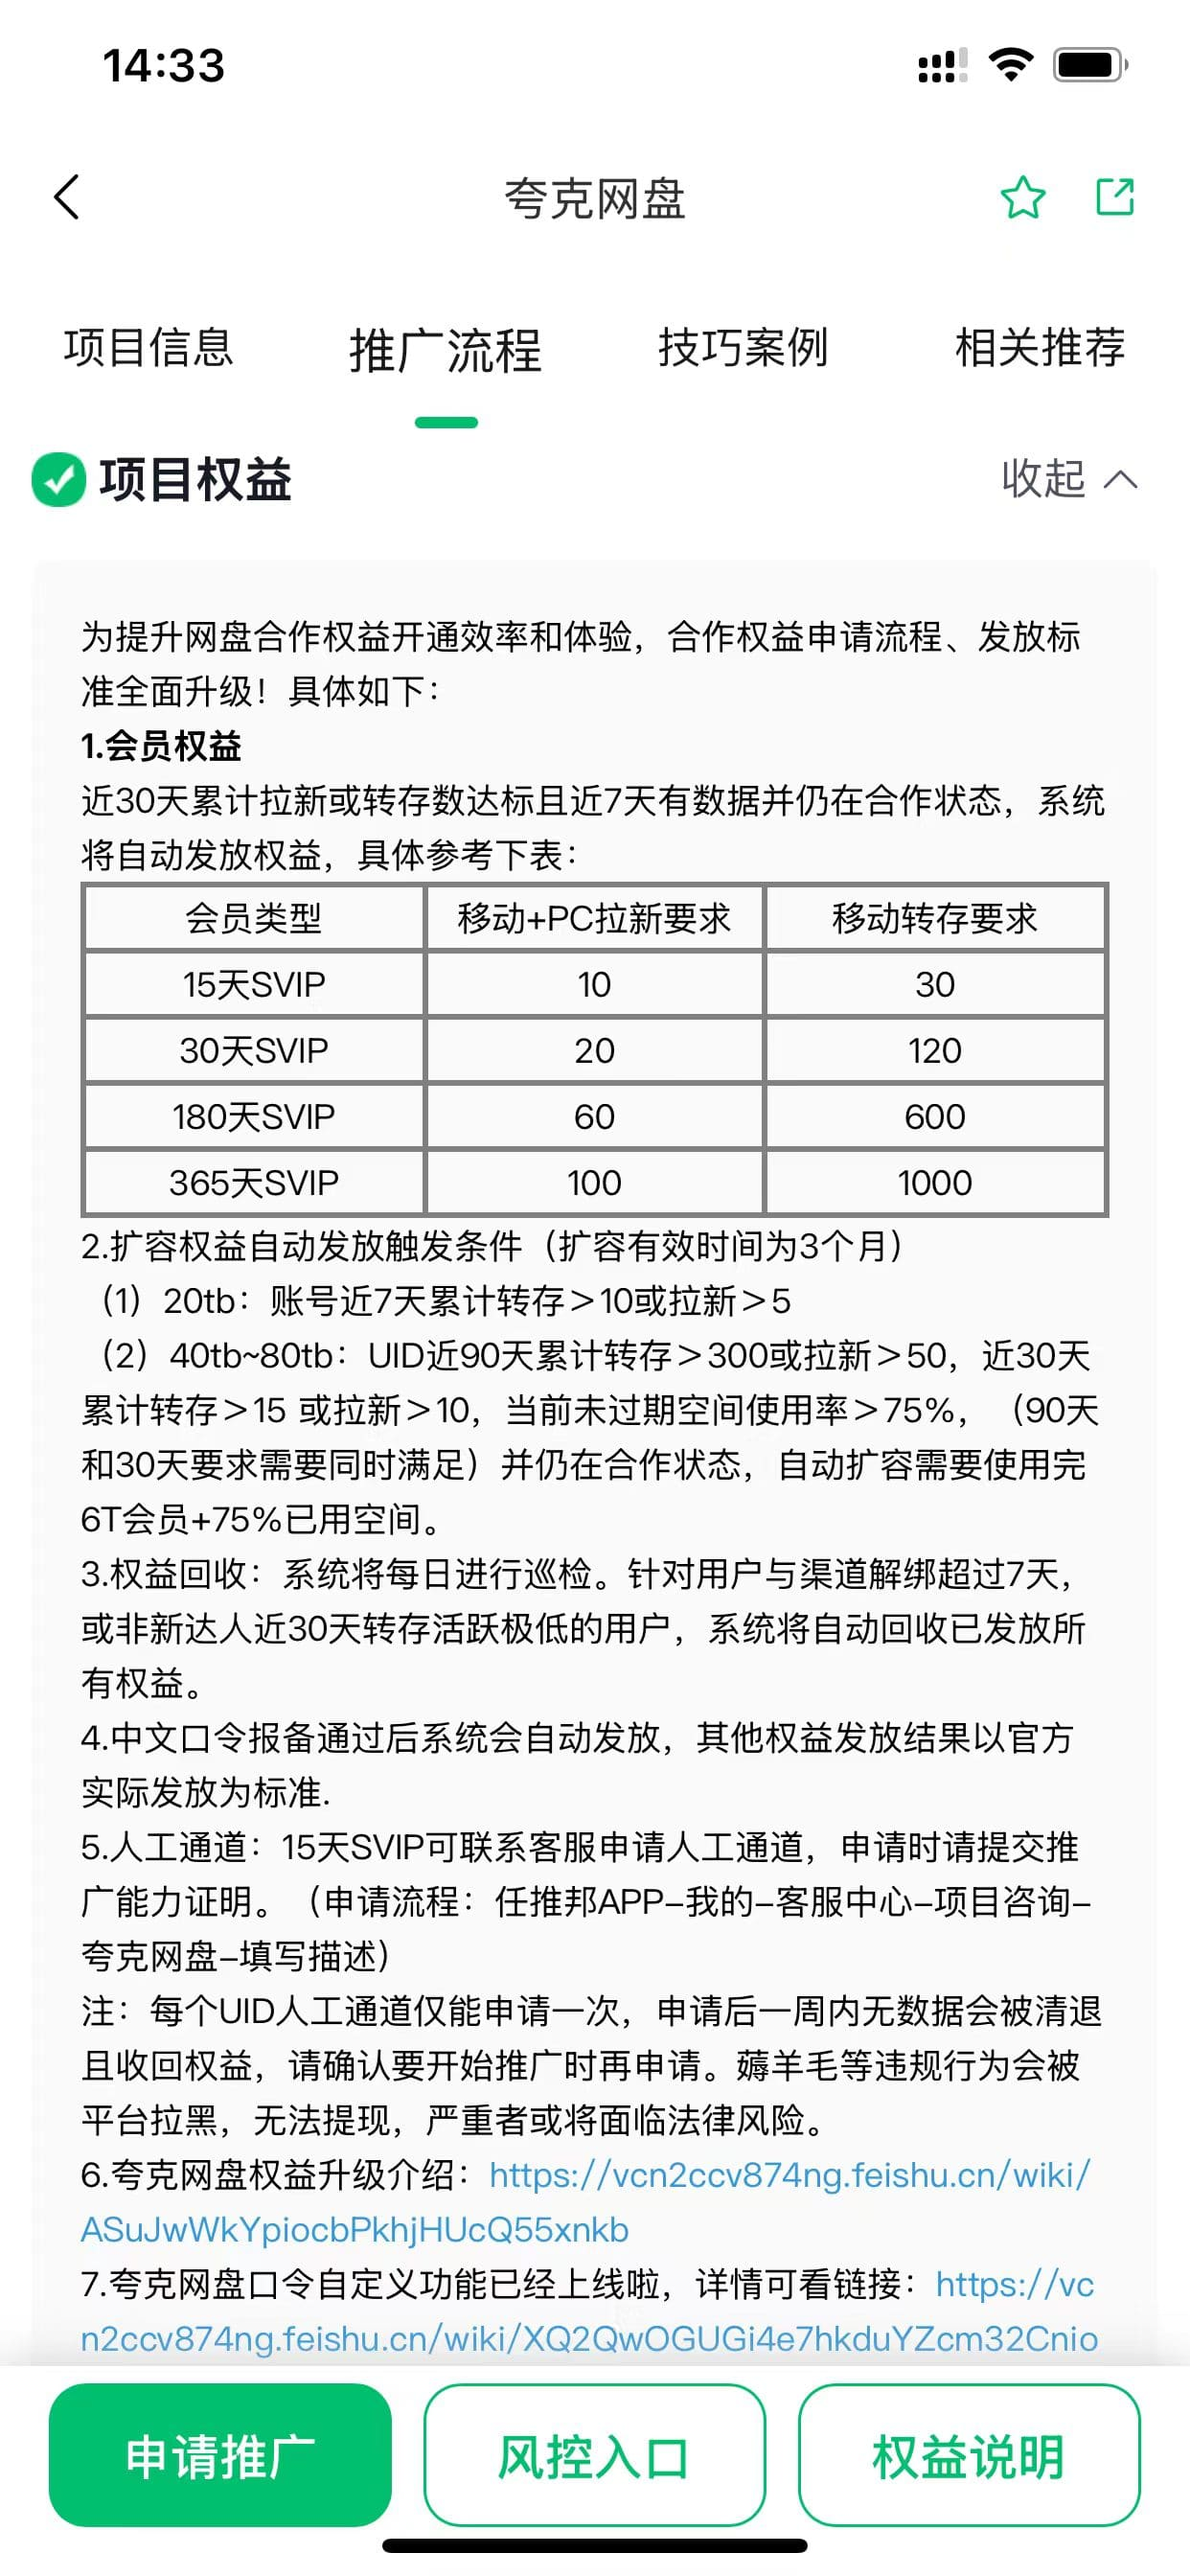
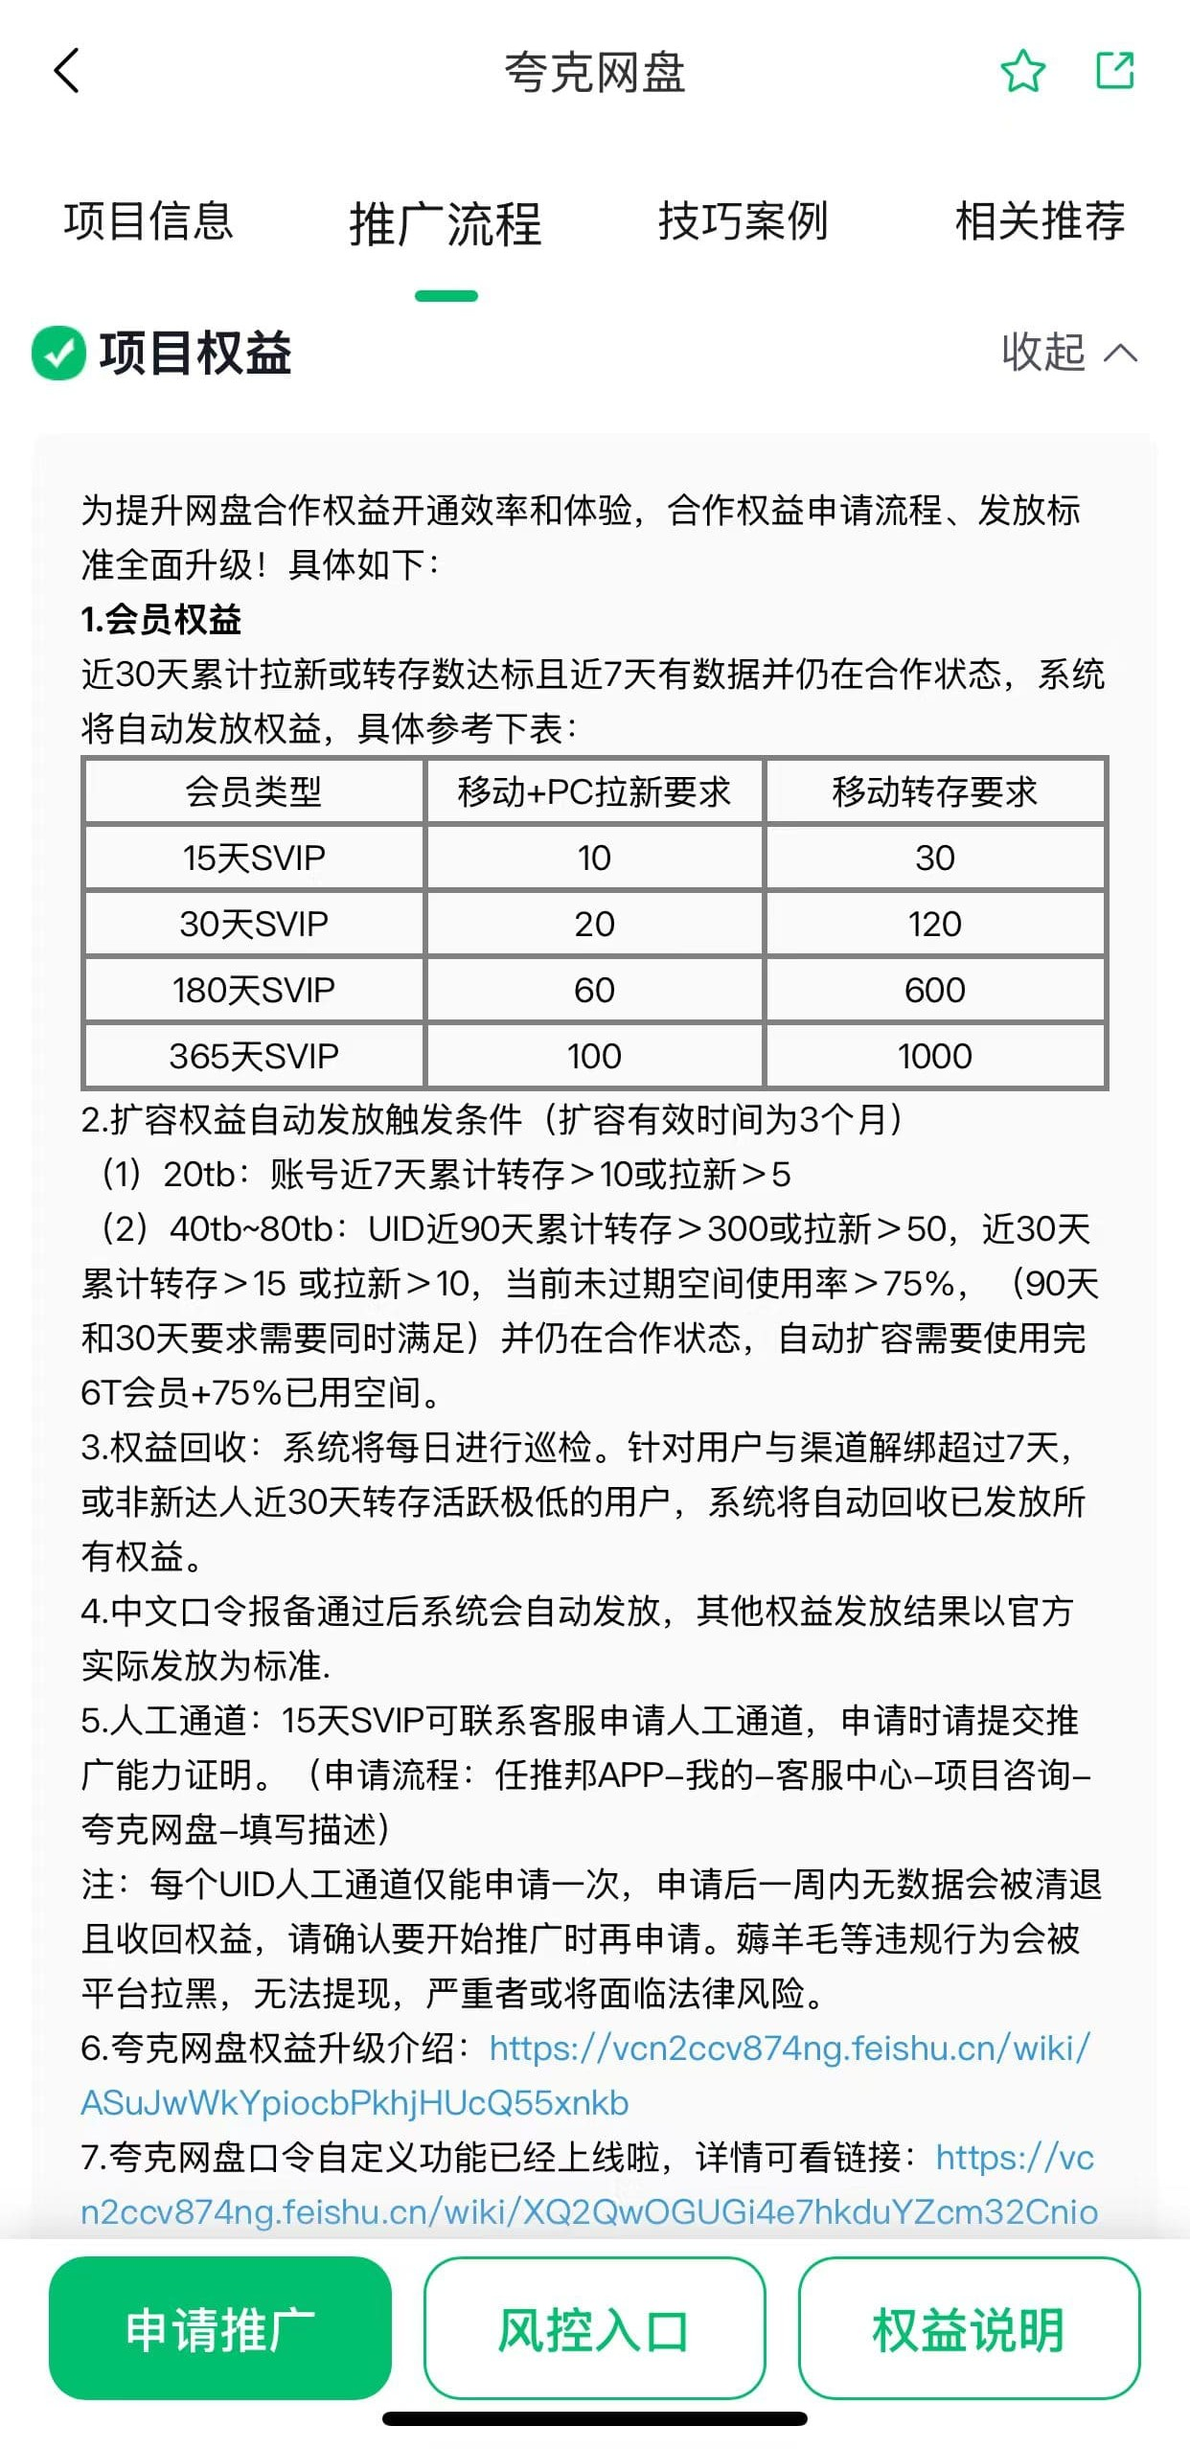
add

diff --git a/_posts/2026-06-20-quark-svip-promotion-earning-guide.md.md b/_posts/2026-06-20-quark-svip-promotion-earning-guide.md.md
@@ -49,7 +49,7 @@ sitemap:
 
 **只要你在持续的分享资源，SVIP和26TB的空间就永远是你的！**
 
-<img src="/assets/images/campaign_benefits.jpg" alt="项目权益" style="max-width: 450px; width: 100%; display: block; margin: 20px auto;" />
+<img src="/assets/images/campaign_benefits.jpg" alt="项目权益" style="max-width: 350px; width: 100%; display: block; margin: 20px auto;" />
 
 ---
 
@@ -59,7 +59,7 @@ sitemap:
 
 不要听我说什么，直接看数据。以下是我在任推邦的真实收益截图：
 
-<img src="/assets/images/commission.jpg" alt="项目收益" style="max-width: 450px; width: 100%; display: block; margin: 20px auto;" />
+<img src="/assets/images/commission.jpg" alt="项目收益" style="max-width: 350px; width: 100%; display: block; margin: 20px auto;" />
 
 以下是真实的收益构成：
 
@@ -85,11 +85,11 @@ sitemap:
 
 **📊 以下是官方推广价格截图：**
 
-<img src="/assets/images/campaign_price.jpg" alt="项目推广价格" style="max-width: 450px; width: 100%; display: block; margin: 20px auto;" />
+<img src="/assets/images/campaign_price.jpg" alt="项目推广价格" style="max-width: 350px; width: 100%; display: block; margin: 20px auto;" />
 
 **🔥 看看当前平台热门项目，夸克网盘一直是流量担当：**
 
-<img src="/assets/images/popular_campaigns.jpg" alt="热门项目" style="max-width: 450px; width: 100%; display: block; margin: 20px auto;" />
+<img src="/assets/images/popular_campaigns.jpg" alt="热门项目" style="max-width: 350px; width: 100%; display: block; margin: 20px auto;" />
 
 ---
 
